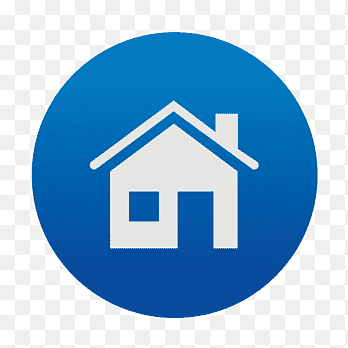
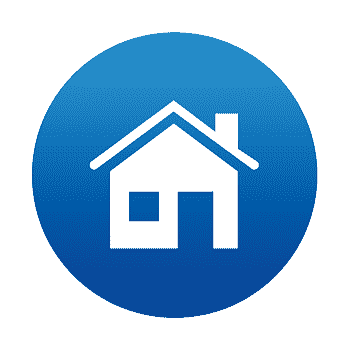
tasks : init go_routes features

Changed region(s): [[0.1149, 0.0862, 0.8908, 0.7184]]

diff --git a/lib/routes.dart b/lib/routes.dart
@@ -1,11 +1,75 @@
 import 'package:flutter/material.dart';
+import 'package:go_router/go_router.dart';
 import 'package:my_app/pages/home/index.dart';
+import 'package:my_app/pages/home/pages/contact.dart';
+import 'package:my_app/pages/home/pages/country.dart';
+import 'package:my_app/pages/home/pages/gallery.dart';
+import 'package:my_app/pages/home/pages/home.dart';
+import 'package:my_app/pages/home/pages/setting.dart';
+import 'package:my_app/pages/home/pages/weather.dart';
 import 'package:my_app/pages/signin.dart';
 import 'package:my_app/pages/signup.dart';
 
-
 Map<String, WidgetBuilder> routes = {
-  '/home': (context) => const HomeIndex(),
   '/sign-in': (context) => Signin(),
   '/sign-up': (context) => Signup(),
+  '/home': (context) => const HomeIndex(),
+  
 };
+
+/*GoRouter _router = GoRouter(
+  routes: <RouteBase>[
+    GoRoute(
+      path: '/sign-in',
+      builder: (BuildContext context, GoRouterState state) => Signin(),
+    ),
+    GoRoute(
+      path: '/sign-up',
+      builder: (BuildContext context, GoRouterState state) => Signup(),
+    ),
+    GoRoute(
+      path: '/home',
+      builder: (BuildContext context, GoRouterState state) {
+        return const HomeIndex();
+      },
+      routes: <RouteBase>[
+        GoRoute(
+          path: '/',
+          builder: (BuildContext context, GoRouterState state) {
+            return const Home();
+          },
+        ),
+        GoRoute(
+          path: '/country',
+          builder: (BuildContext context, GoRouterState state) {
+            return const Country();
+          },
+        ),
+        GoRoute(
+          path: '/gallery',
+          builder: (BuildContext context, GoRouterState state) {
+            return const Gallery();
+          },
+        ),
+        GoRoute(
+          path: '/contact',
+          builder: (BuildContext context, GoRouterState state) {
+            return const Contact();
+          },
+        ),
+        GoRoute(
+          path: '/weather',
+          builder: (BuildContext context, GoRouterState state) {
+            return const Weather();
+          },
+        ),
+        GoRoute(
+          path: '/setting',
+          builder: (BuildContext context, GoRouterState state) {
+            return const Setting();
+          },
+        ),
+      ],
+    ),
+  ],
+);*/

diff --git a/lib/pages/home/pages/home.dart b/lib/pages/home/pages/home.dart
@@ -1,15 +1,49 @@
-
-
-
 import 'package:flutter/material.dart';
+import 'package:my_app/pages/home/pages/country.dart';
+import 'package:my_app/pages/home/pages/weather.dart';
 
 class Home extends StatelessWidget {
   const Home({super.key});
 
   @override
   Widget build(BuildContext context) {
-    return const Scaffold(
-      body: Text("home Page"),
+    return Scaffold(
+      body: GridView.count(
+        crossAxisCount: 2,
+        padding: EdgeInsets.all(30),
+        children: [
+          Container(
+            child: TextButton(
+                onPressed: () => Home(),
+                child: Image(image: AssetImage("assets/home.png"))),
+          ),
+          Container(
+            child: TextButton(
+                onPressed: () => Weather(),
+                child: Image(image: AssetImage("assets/weather.png"))),
+          ),
+          Container(
+            child: TextButton(
+                onPressed: () {},
+                child: Image(image: AssetImage("assets/gallery.png"))),
+          ),
+          Container(
+            child: TextButton(
+                onPressed: () {},
+                child: Image(image: AssetImage("assets/country.png"))),
+          ),
+          Container(
+            child: TextButton(
+                onPressed: () {},
+                child: Image(image: AssetImage("assets/setting.png"))),
+          ),
+          Container(
+            child: TextButton(
+                onPressed: () {},
+                child: Image(image: AssetImage("assets/contact.png"))),
+          ),
+        ],
+      ),
     );
   }
 }

diff --git a/lib/pages/home/index.dart b/lib/pages/home/index.dart
@@ -14,6 +14,8 @@ class HomeIndex extends StatefulWidget {
 class _HomeState extends State<HomeIndex> {
   late SharedPreferences _preferences;
 
+  int selectedIndex = 0;
+
   Future<void> handelSignOut(BuildContext context) async {
     _preferences = await SharedPreferences.getInstance();
     _preferences.setBool('isAuthenticated', false);
@@ -24,7 +26,11 @@ class _HomeState extends State<HomeIndex> {
     );
   }
 
-  int selectedIndex = 0;
+  void navigateToPage(int index) {
+    setState(() {
+      selectedIndex = index;
+    });
+  }
 
   @override
   Widget build(BuildContext context) {
@@ -33,11 +39,7 @@ class _HomeState extends State<HomeIndex> {
       drawer: CustomDrawer(
         pages: pages,
         selectedIndex: selectedIndex,
-        onItemSelected: (index) {
-          setState(() {
-            selectedIndex = index;
-          });
-        },
+        onItemSelected: navigateToPage,
         onSignOut: () => handelSignOut(context),
       ),
       body: IndexedStack(

diff --git a/lib/main.dart b/lib/main.dart
@@ -16,7 +16,7 @@ class MyApp extends StatelessWidget {
     return MaterialApp(
       debugShowCheckedModeBanner: false,
       title: 'My App',
-      routes: routes,
+      
       home: FutureBuilder<SharedPreferences>(
         future: SharedPreferences.getInstance(),
         builder: (context, snapshot) {
